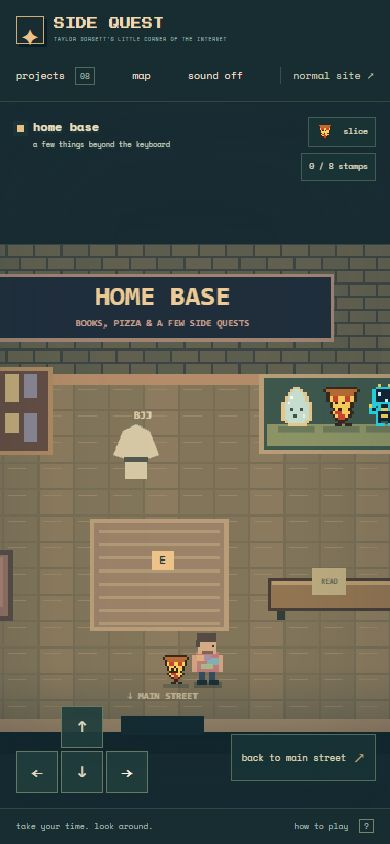
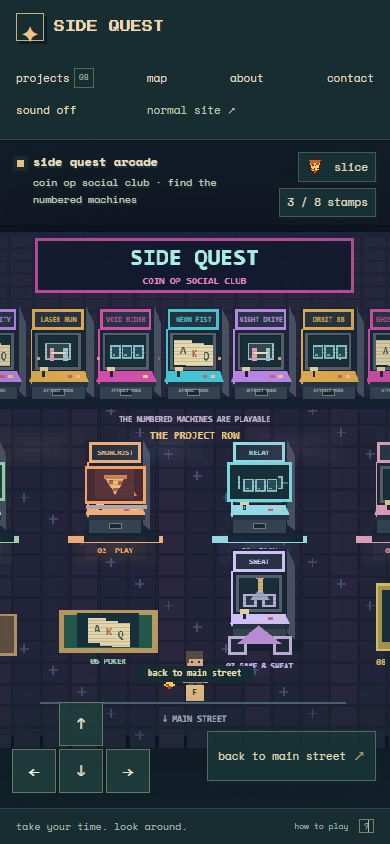
give discoveries a little life

diff --git a/eightbit/portfolio.js b/eightbit/portfolio.js
@@ -3,7 +3,7 @@ import { canEnter, mapPosition } from './navigation.js';
 import { World } from './world.js';
 import { projects, pets, jobs, careerStories, loadProgress, saveProgress } from './content.js';
 import { scenes } from './scenes.js';
-import { pet } from './art.js';
+import { pet, screen } from './art.js';
 import { Sound } from './sound.js';
 
 const progress = loadProgress();
@@ -73,6 +73,9 @@ function openDialog(tag, title, html, route = false) {
   root.querySelector('.dialog-tag').textContent = tag;
   root.querySelector('.dialog-content').innerHTML = `<h2 id="dialog-title">${title}</h2>${html}`;
   if (!dialog.open) dialog.showModal();
+  const origin = world.interactionOrigin();
+  const bounds = dialog.getBoundingClientRect();
+  dialog.style.transformOrigin = origin ? `${origin.x - bounds.left}px ${origin.y - bounds.top}px` : '50% 50%';
   dialog.scrollTop = 0;
   root.querySelector('.close-dialog').focus();
 }
@@ -124,6 +127,16 @@ function passport() {
   openDialog('YOUR POCKET COLLECTION', 'a few good discoveries.', `<p class="dialog-lead">visit each project to collect its stamp. all eight unlock a photo booth keepsake.</p><div class="passport">${projects.map(item => `<button data-project="${item.id}" class="${progress.stamps.includes(item.id) ? 'collected' : ''}"><span>${progress.stamps.includes(item.id) ? ({ lilgotchi: '♥', snowcrust: '◭', relay: '⇄', fight: '⚔', sweat: '♜', moonbean: '☕', poker: '♠', reachoutt: '☎' }[item.id]) : '◇'}</span><strong>${item.name}</strong><small>${progress.stamps.includes(item.id) ? 'VISITED' : 'TAKE A LOOK'}</small></button>`).join('')}</div><p class="small-note">your companion and discoveries are saved in this browser.</p>${progress.stamps.length === 8 ? '<button class="primary" data-ui="photo">take your photo ↗</button>' : ''}`);
 }
 
+function paintStamps() {
+  root.querySelectorAll('.passport .collected').forEach(button => {
+    const project = projects.find(item => item.id === button.dataset.project);
+    const stamp = document.createElement('canvas'); stamp.width = 64; stamp.height = 48;
+    stamp.setAttribute('aria-hidden', 'true');
+    screen(stamp.getContext('2d'), project.screen, 0, 0, 64, 48, 0, true);
+    button.querySelector('span').replaceChildren(stamp);
+  });
+}
+
 function about() {
   openDialog('HOME BASE / TAYLOR DORSETT', 'hey, i’m taylor.', `<div class="about-panel"><img src="images/me.png" alt="Taylor in a tie dye shirt eating pizza"/><div><p class="project-description">software engineer in missoula, montana. former (recovering) tech recruiter.</p><p>i like making things for the web. sometimes useful things. sometimes a tiny pet or a pizza game.</p><p>away from the keyboard: reading, bjj, poker, video games and tie dye shirts.</p><div class="dialog-actions"><button class="primary" data-ui="directory">see the projects ↗</button><button class="secondary" data-ui="contact">say hello</button></div></div></div>`);
 }
@@ -149,7 +162,7 @@ function pizza() {
 function delivery() {
   if (progress.pizza === 'carrying') {
     progress.pizza = 'delivered'; updateInventory(); sound.chime();
-    openDialog('SIDE QUEST COMPLETE', 'pizza makes friends.', '<p class="dialog-lead">delivery complete. here’s the key to the arcade rooftop. there’s a pretty good view up there.</p><button class="primary" data-room="rooftop">let’s see the view ↑</button>');
+    openDialog('SIDE QUEST COMPLETE', 'pizza makes friends.', '<div class="quest-exchange" aria-label="Pizza delivered. Rooftop key received."><span>🍕</span><span>↔</span><span class="rooftop-key">⚿</span></div><p class="dialog-lead">“you made it! thanks for bringing dinner. here’s the rooftop key. head up whenever you like.”</p><button class="primary" data-room="rooftop">let’s see the view ↑</button>');
   } else if (progress.pizza === 'delivered') pizza();
   else openDialog('A NEIGHBOR ON THE BENCH', 'waiting on a pizza.', '<p class="dialog-lead">“if you’re heading to the arcade, could you pick up my order? it’s at the little pizza table.”</p><button class="secondary" data-room="arcade">head to the arcade →</button>');
 }
@@ -171,7 +184,7 @@ function handleAction(action) {
   if (action.startsWith('room:')) { changeRoom(action.slice(5)); return; }
   if (action.startsWith('project:')) { openProject(action.slice(8)); return; }
   const actions = {
-    directory, map, pets: choosePet, passport, about, work, contact, pizza, delivery, photo, help,
+    directory, map, pets: choosePet, passport: () => { passport(); paintStamps(); }, about, work, contact, pizza, delivery, photo, help,
     chef: () => career('chef'), levels: () => career('levels'), recruiting: () => career('recruiting'),
     enter: () => { dismissWelcome(); world.goTo('arcade'); canvas.focus(); },
     dismiss: () => { dismissWelcome(); canvas.focus(); },

diff --git a/eightbit/world.js b/eightbit/world.js
@@ -46,6 +46,7 @@ export class World {
   enter(id, returnPoint) {
     if (!scenes[id] || !canEnter(id, this.progress)) id = 'town';
     this.enteredAt = performance.now();
+    this.lastMove = this.enteredAt;
     this.stop(); this.id = id; this.scene = scenes[id];
     this.player = { ...(returnPoint || this.scene.spawn) };
     this.companion = { ...this.player, direction: 'down' };
@@ -126,6 +127,15 @@ export class World {
 
   interact() { if (!this.paused && this.nearby) this.onAction(this.nearby.action); }
 
+  // UI panels grow from the object the visitor actually approached.
+  interactionOrigin() {
+    const point = this.nearby;
+    if (!point) return null;
+    const bounds = this.canvas.getBoundingClientRect();
+    return { x: bounds.left + (point.x - this.camera.x) / this.canvas.width * bounds.width,
+      y: bounds.top + ((point.hit ? point.hit[1] + point.hit[3] / 2 : point.y) - this.camera.y) / this.canvas.height * bounds.height };
+  }
+
   tick(time) {
     const elapsed = Math.min((time - this.last) / 1000, .25); this.last = time; this.walking = false;
     // Substeps preserve real movement speed on slower devices without tunneling through walls.
@@ -183,7 +193,14 @@ export class World {
       if (this.progress.stamps.length === projects.length) text(ctx, 'PHOTO BOOTH UNLOCKED', 689, 516, 7, '#e9cb91');
     }
     if (this.target && this.path.length) { const { x, y } = this.target; box(ctx, x - 7, y - 1, 14, 2, '#e7cf9a'); box(ctx, x - 1, y - 7, 2, 14, '#e7cf9a'); }
-    const companion = () => pet(ctx, this.companion.x, this.companion.y, this.progress.pet, this.reduced.matches ? 0 : time, this.paused || time - this.lastMove > 12000, 1, this.companion.direction, !!this.nearby);
+    const greeting = time - this.enteredAt < 2200;
+    const curious = !this.walking && ['pizza', 'snowcrust', 'lilgotchi', 'relay'].includes(this.nearby?.id);
+    const companion = () => {
+      const hop = greeting && !this.reduced.matches ? Math.max(0, Math.sin((time - this.enteredAt) / 150)) * 5 : 0;
+      const direction = curious ? this.nearby.x > this.companion.x ? 'right' : 'left' : this.companion.direction;
+      pet(ctx, this.companion.x, this.companion.y - hop, this.progress.pet, this.reduced.matches ? 0 : time, !greeting && !curious && time - this.lastMove > 12000, 1, direction, greeting);
+      if (greeting || curious) text(ctx, greeting ? '♥' : this.nearby.id === 'snowcrust' || this.nearby.id === 'pizza' ? 'PIZZA?' : '?', this.companion.x, this.companion.y - 44, 8, '#edc389');
+    };
     const actors = [
       { y: this.companion.y, draw: companion },
       { y: this.player.y, draw: () => person(ctx, this.player.x, this.player.y, this.direction, this.walking && !this.reduced.matches, time, this.progress.pizza === 'carrying') },
@@ -197,6 +214,10 @@ export class World {
       } });
     }
     actors.sort((a, b) => a.y - b.y).forEach(actor => actor.draw());
+    if (this.id === 'town' && this.progress.pizza === 'delivered') {
+      box(ctx, 245, 512, 24, 5, '#e9ba79'); box(ctx, 245, 517, 24, 2, '#a55c3e');
+      text(ctx, 'THANKS!', 256, 478, 7, '#f1d8a7');
+    }
     for (const point of this.scene.points) {
       const near = point.id === this.nearby?.id;
       if (near || point.id === this.hovered?.id || this.id === 'town' && point.id === 'arcade') {
@@ -214,7 +235,8 @@ export class World {
     const ctx = image.getContext('2d'); paintScene(ctx, 'rooftop', projects);
     box(ctx, 768, 0, 192, 640, '#f0dfba'); box(ctx, 0, 594, 768, 46, '#f0dfba');
     person(ctx, 364, 440, pose === 'view' ? 'up' : 'down', pose === 'dance', 120, pose === 'pizza'); pet(ctx, 410, 440, this.progress.pet, 0, false, 1.4, pose === 'view' ? 'up' : 'down', true);
-    text(ctx, pose === 'pizza' ? 'PIZZA BREAK' : pose === 'view' ? 'MOUNTAIN TIME' : 'HELLO FROM MISSOULA', 384, 560, 13, '#e5d7b0');
+    box(ctx, 150, 544, 468, 40, '#3e6057');
+    text(ctx, pose === 'pizza' ? 'PIZZA BREAK' : pose === 'view' ? 'MOUNTAIN TIME' : 'HELLO FROM MISSOULA', 384, 565, 13, '#e5d7b0');
     text(ctx, 'SIDE QUEST', 864, 91, 23, '#3d5c56'); text(ctx, 'ARCADE', 864, 123, 23, '#3d5c56');
     text(ctx, 'a little visit', 864, 212, 13, '#5c7262'); text(ctx, 'to missoula.', 864, 233, 13, '#5c7262');
     text(ctx, 'taylor dorsett', 864, 508, 13, '#5c7262'); text(ctx, 'taylordorsett.com', 864, 531, 11, '#5c7262');

diff --git a/eightbit/style.css b/eightbit/style.css
@@ -209,7 +209,7 @@
 #eightbit .place-subtitle, #eightbit .inventory-bar button, #eightbit .game-footer { font-size: 11px; }
 #eightbit .pet-choices small, #eightbit .pet-choices span, #eightbit .screen-caption { font-size: 12px; }
 #eightbit .game-dialog[open] { animation: cabinet-open .18s ease-out; }
-@keyframes cabinet-open { from { opacity: 0; transform: translateY(12px) scale(.97); } to { opacity: 1; transform: none; } }
+@keyframes cabinet-open { from { opacity: 0; transform: scale(.45); } to { opacity: 1; transform: none; } }
 @media (max-width: 900px) {
   #eightbit .brand small { display: none; }
   #eightbit .game-header { gap: 12px; padding: 8px 16px; flex-wrap: wrap; }
@@ -247,3 +247,13 @@
 @media (max-width: 650px) { #eightbit .project-demo { grid-template-columns: 1fr; padding: 16px; } #eightbit .demo-pet { margin: auto; } #eightbit .project-screenshot { aspect-ratio: 1.6; } }
 
 #eightbit .legacy-computer { display: block; width: 100%; height: min(540px, 60dvh); border: 12px solid #333f3a; border-radius: 12px; background: #fff; margin: 20px 0; }
+
+#eightbit .quest-exchange { display: flex; justify-content: center; gap: 36px; align-items: center; padding: 24px; background: #142d32; color: #edc389; font-size: 38px; margin-bottom: 24px; }
+#eightbit .passport canvas { width: 64px; height: 48px; image-rendering: pixelated; border: 2px solid currentColor; padding: 4px; transform: rotate(-5deg); }
+#eightbit .rooftop-key { display: inline-block; animation: receive-key .6s ease-out; }
+#eightbit .project-bottom > span { display: inline-block; border: 2px solid #a7c6a0; padding: 10px; transform: rotate(-3deg); animation: receive-stamp .3s ease-out; }
+#eightbit .postcard-preview { animation: photo-develop .65s ease-out; }
+@keyframes receive-key { from { transform: translateX(-40px) rotate(-30deg); opacity: 0; } to { transform: none; opacity: 1; } }
+@keyframes receive-stamp { from { transform: scale(1.4) rotate(-12deg); opacity: 0; } to { transform: scale(1) rotate(-3deg); opacity: 1; } }
+@keyframes photo-develop { from { filter: brightness(2); opacity: .2; } to { filter: brightness(1); opacity: 1; } }
+@media (prefers-reduced-motion: reduce) { #eightbit .rooftop-key, #eightbit .project-bottom > span, #eightbit .postcard-preview { animation: none; } }
